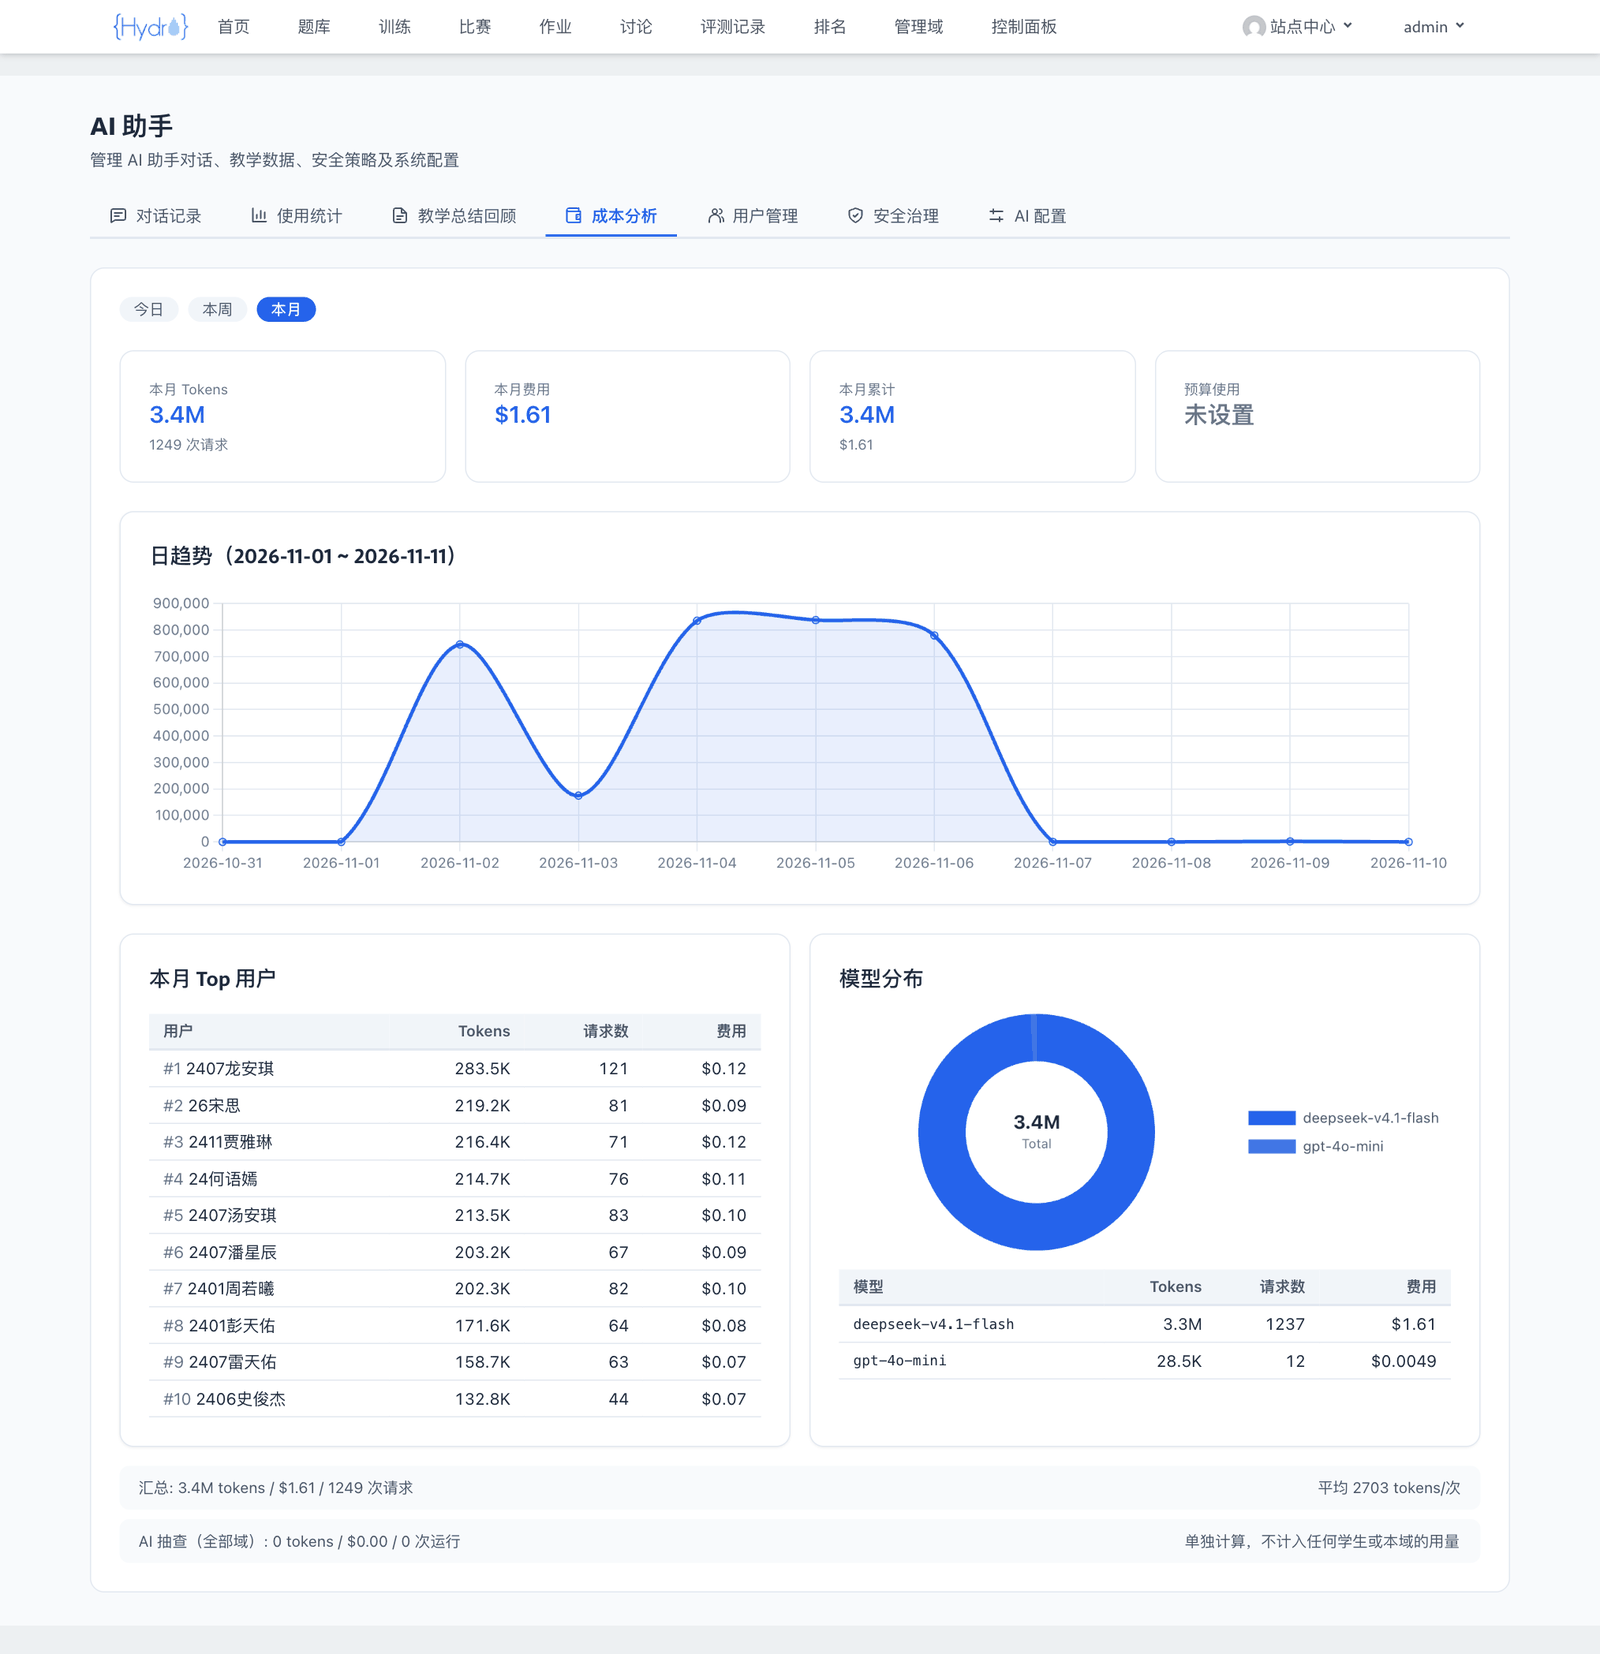
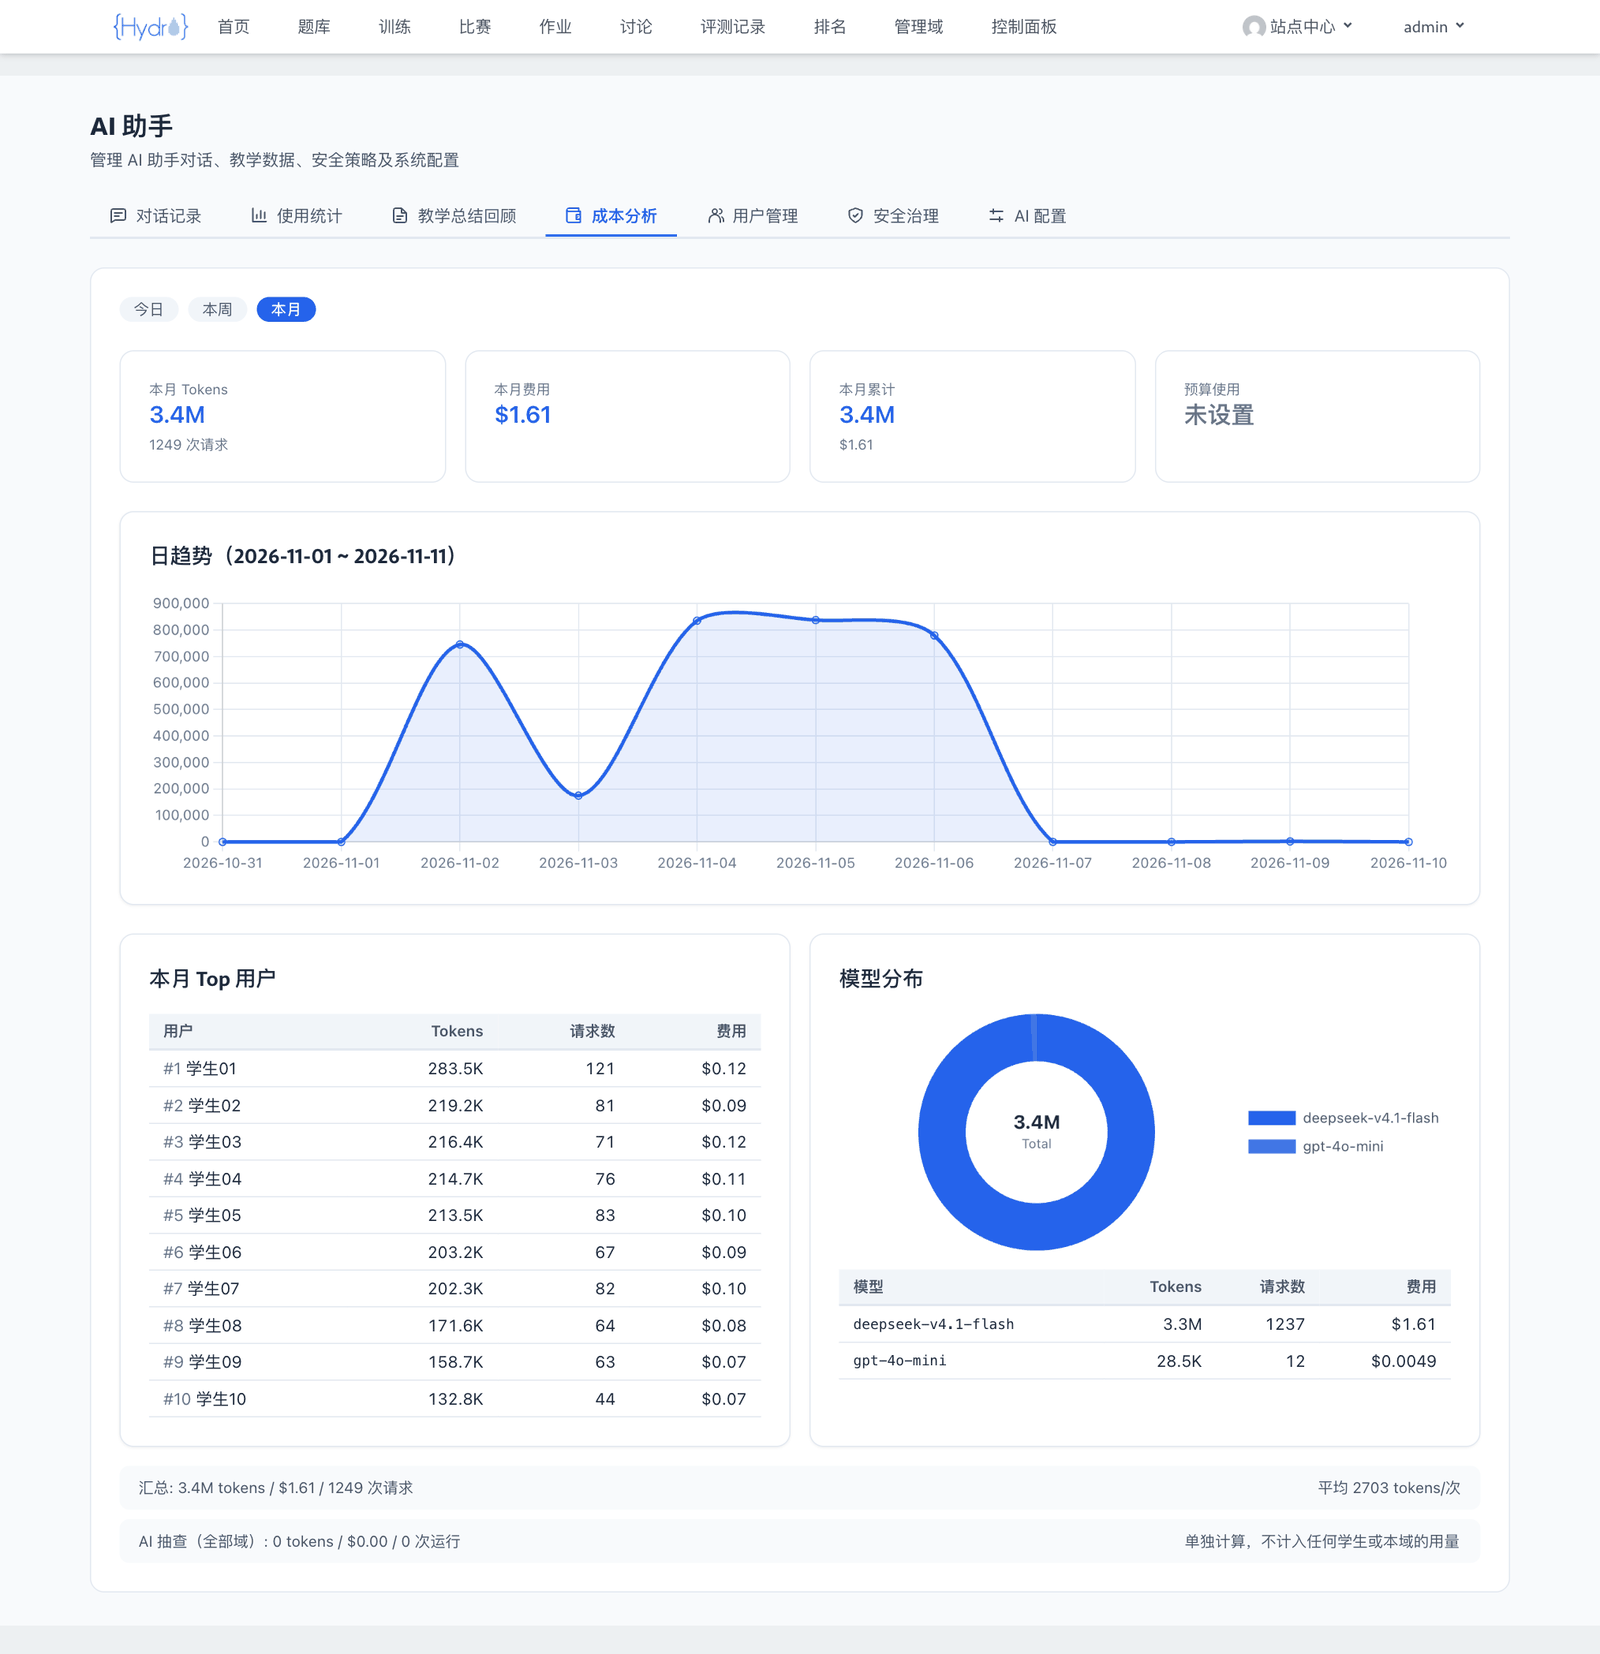
docs: drop the learning-summary screenshot and use placeholder names (#150)
The learning-summary screenshot showed a real student's AI summary with
only the name swapped, so it must not be README material. Remove it.

Retake the student overview with placeholder names (2501学生01 …) and
uids that do not exist on the source site; two of the previous sample
names matched real students. Relabel the cost dashboard's top users as
学生01–学生10 without class prefixes.

diff --git a/README_en.md b/README_en.md
@@ -43,8 +43,6 @@ A teaching-first AI plugin for [HydroOJ](https://github.com/hydro-dev/Hydro): it
 
 <img src="assets/screenshots/teaching-analysis.png" alt="AI teaching analysis on a homework scoreboard" width="800">
 
-<img src="assets/screenshots/learning-summary.png" alt="Batch learning summaries on a contest scoreboard" width="800">
-
 </details>
 
 ### Admins: users, quotas, safety and cost

diff --git a/README.md b/README.md
@@ -41,8 +41,6 @@
 
 <img src="assets/screenshots/teaching-analysis.png" alt="作业成绩表中的 AI 教学分析" width="800">
 
-<img src="assets/screenshots/learning-summary.png" alt="比赛成绩表中的批量学习总结" width="800">
-
 </details>
 
 ### 管理员：用户、额度、安全和成本
